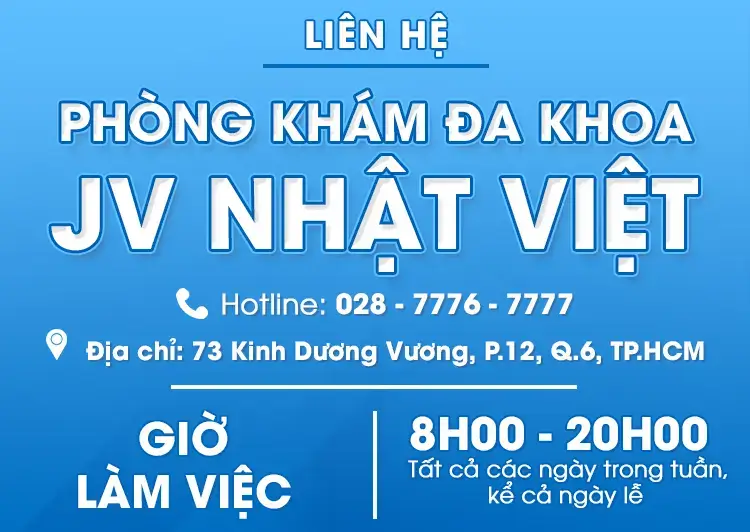
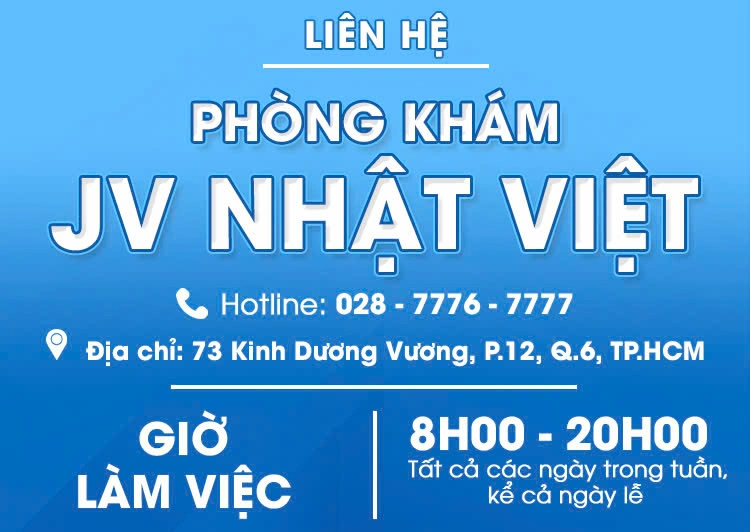
update

diff --git a/index.php b/index.php
@@ -26,9 +26,9 @@ $dataFake = array(
         'title' => 'PHƯƠNG CHÂM PHÒNG KHÁM', 
         // 'image' => '/images/icons/icon_nam_khoa2.webp', 
         'text' => 'Khoa Hậu Môn - Trực Tràng Phòng Khám JV Nhật Việt chuyên khám và hỗ trợ điều trị các bệnh thường gặp như trĩ, rò hậu môn, apxe hậu môn, nứt kẻ hậu môn,… Hiện nay ngày càng nhiều người mắc các Hậu Môn - Trực Tràng. Chính vì vậy bệnh nhân cần chủ động đi khám tại các cơ sở uy tín để nhanh chóng phát hiện và hỗ trợ điều trị sớm.'),
-    // array('title' => 'DA LIỄU', 'image' => '/images/icons/icon_da_lieu2.webp', 'text' => 'Chuyên khoa Da liễu Phòng khám Đa khoa Nhật Việt là đơn vị đảm nhận chẩn đoán và điều trị các bệnh lý thuộc chuyên ngành Da liễu.'),
-    // array('title' => 'BỆNH XÃ HỘI', 'image' => '/images/icons/icon_benh_xh2.webp', 'text' => 'Đa khoa Nhật Việt là một trong những địa chỉ thăm khám, xét nghiệm và điều trị bệnh xã hội uy tín tại TPHCM được người dân thành phố và khu vực tin chọn.'),
-    // array('title' => 'HẬU MÔN - TRỰC TRÀNG', 'image' => '/images/icons/icon_hm_tt2.webp', 'text' => 'Khoa Hậu môn – Trực tràng Phòng khám Đa khoa Nhật Việt chuyên cung cấp dịch vụ khám chữa toàn diện các bệnh lý hậu môn – trực tràng uy tín.'),
+    // array('title' => 'DA LIỄU', 'image' => '/images/icons/icon_da_lieu2.webp', 'text' => 'Chuyên khoa Da liễu Phòng khám Nhật Việt là đơn vị đảm nhận chẩn đoán và điều trị các bệnh lý thuộc chuyên ngành Da liễu.'),
+    // array('title' => 'BỆNH XÃ HỘI', 'image' => '/images/icons/icon_benh_xh2.webp', 'text' => 'Phòng khám Nhật Việt là một trong những địa chỉ thăm khám, xét nghiệm và điều trị bệnh xã hội uy tín tại TPHCM được người dân thành phố và khu vực tin chọn.'),
+    // array('title' => 'HẬU MÔN - TRỰC TRÀNG', 'image' => '/images/icons/icon_hm_tt2.webp', 'text' => 'Khoa Hậu môn – Trực tràng Phòng khám Nhật Việt chuyên cung cấp dịch vụ khám chữa toàn diện các bệnh lý hậu môn – trực tràng uy tín.'),
 );
 ?>
 
@@ -61,7 +61,7 @@ $dataFake = array(
                     Chúng tôi mang đến
                 </div>
                 <div class="we_bring_body_botom_col_text">
-                    Đa Khoa Nhật Việt luôn nỗ lực để xây dựng một thương hiệu chăm sóc sức khỏe với hàm lượng tri thức, khoa học và công nghệ ở mức cao. Mỗi dịch vụ y tế đều hướng tới tính tiện ích, hiệu quả, có ý nghĩa với cuộc sống và sức khỏe con người.
+                    Phòng khám Nhật Việt luôn nỗ lực để xây dựng một thương hiệu chăm sóc sức khỏe với hàm lượng tri thức, khoa học và công nghệ ở mức cao. Mỗi dịch vụ y tế đều hướng tới tính tiện ích, hiệu quả, có ý nghĩa với cuộc sống và sức khỏe con người.
                 </div>
                 <button class="we_bring_body_botom_col_button">Xem tất cả các dịch vụ của chúng tôi</button>
             </div>
@@ -322,7 +322,7 @@ $dataFake = array(
                     </div>
                 </div>
                 <div class="feedback_container_row_card_bottom">
-                    “Mình bị viêm da cũng khá nặng, đã chữa trị nhiều nơi nhưng không khỏi. Mình biết đến Phòng khám Đa khoa Nhật Việt qua một người bạn. Khi mình đến khám, bác sĩ và nhân viên phòng khám hướng dẫn mình rất chi tiết trong từng hạng mục.”
+                    “Mình bị viêm da cũng khá nặng, đã chữa trị nhiều nơi nhưng không khỏi. Mình biết đến Phòng khám Nhật Việt qua một người bạn. Khi mình đến khám, bác sĩ và nhân viên phòng khám hướng dẫn mình rất chi tiết trong từng hạng mục.”
                 </div>
             </div>
             <div class="feedback_container_row_card ">
@@ -347,7 +347,7 @@ $dataFake = array(
                     </div>
                 </div>
                 <div class="feedback_container_row_card_bottom">
-                “Theo Hải thì chất lượng phòng khám là khỏi chê, đội ngũ nhân viên y, bác sĩ rất thân thiện và nhiệt tình. Thời gian trả kết quả cũng rất nhanh, cái chính là an toàn và bảo mật. Đây là điều mà Hải cảm thấy hài lòng nhất, xin cám ơn Đa khoa Nhật Việt!”
+                “Theo Hải thì chất lượng phòng khám là khỏi chê, đội ngũ nhân viên y, bác sĩ rất thân thiện và nhiệt tình. Thời gian trả kết quả cũng rất nhanh, cái chính là an toàn và bảo mật. Đây là điều mà Hải cảm thấy hài lòng nhất, xin cám ơn Phòng khám Nhật Việt!”
                 </div>
             </div>
             <div class="feedback_container_row_card ">
@@ -372,7 +372,7 @@ $dataFake = array(
                     </div>
                 </div>
                 <div class="feedback_container_row_card_bottom">
-                “Công việc của Hiếu khá bận nên thời gian rảnh rất ít. Do đó Hiếu đã chọn thăm khám nam khoa tại Đa Khoa Nhật Việt qua Đặt hẹn Online.”
+                “Công việc của Hiếu khá bận nên thời gian rảnh rất ít. Do đó Hiếu đã chọn thăm khám nam khoa tại Phòng khám Nhật Việt qua Đặt hẹn Online.”
                 </div>
             </div>
         </div>

diff --git a/inc/header.php b/inc/header.php
@@ -35,8 +35,8 @@ header("Pragma: no-cache");
 header("Expires: Sat, 26 Jul 1997 05:00:00 GMT");
 header("Cache-Control: max-age=2592000");
 
-$local = '/haumontructrang.phongkhamdakhoanhatviet.vn';
-// $local ='https://haumontructrang.phongkhamdakhoanhatviet.vn'
+// $local = '/haumontructrang.phongkhamdakhoanhatviet.vn';
+$local ='https://haumontructrang.phongkhamdakhoanhatviet.vn'
 
 
 ?>
@@ -47,8 +47,8 @@ $local = '/haumontructrang.phongkhamdakhoanhatviet.vn';
 <head>
     <meta charset="UTF-8">
     <meta name="viewport" content="width=device-width, initial-scale=1.0">
-    <meta name="description" content="Phòng khám đa khoa chuyên điều trị bệnh nam khoa, bệnh xã hội, da liễu, hậu môn - trực tràng uy tính tại thành phố Hồ Chí Minh">
-    <title>Phòng khám đa khoa</title>
+    <meta name="description" content="Phòng khám Nhật việt chuyên điều trị bệnh nam khoa, bệnh xã hội, da liễu, hậu môn - trực tràng uy tính tại thành phố Hồ Chí Minh">
+    <title>Phòng khám Nhật Việt</title>
     <link rel="icon" href="<?php echo $local ?>/images/icons/icon_logo.png" type="image/x-icon">
     <link rel="stylesheet" href="<?php echo $local ?>/css/toastr.min.css" />
     <link rel="stylesheet" href="<?php echo $local ?>/css/slide.min.css" />
@@ -287,43 +287,16 @@ $sessionkhoa = Session::get('khoa');
                 <div class="header_bottom_dm">
 
                     <a class="header_bottom_gt_a" href="#">hậu môn - trực tràng</a>
-                    <div class="dropdown_menu">
+                    <!-- <div class="dropdown_menu">
                         <div style="height: 10px;"></div>
                         <div class="dropdown_menu_body">
-                            <!-- <ul class="dropdown_menu_body_ul">
-                                <h5 class="dropdown_menu_body_ul_li_h5">Nam khoa</h5>
-                                <?php foreach ($MenuNamkhoa as $value) :
-                                    $activeClass = ($value['id'] === $sessionBenh) ? 'active_menu_tab' : ''; ?>
-
-                                    <li onclick="saveLinkToSession('<?php echo $value['session']; ?>'); return true;" class="dropdown_menu_body_ul_li <?php echo $activeClass; ?>">
-
-                                        <a class="dropdown_menu_body_ul_li_a" href="<?php echo $local . $value['link'] ?>"><?php echo $value['title'] ?></a>
-
-                                    </li>
-                                <?php endforeach; ?>
-                            </ul> -->
-                        <!-- <ul class="dropdown_menu_body_ul">
-                                <h5 class="dropdown_menu_body_ul_li_h5">da liễu</h5>
-                                <?php foreach ($MenuDaLieu as $value) : $activeClass = ($value['id'] === $sessionBenh) ? 'active_menu_tab' : ''; ?>
-                                    <li onclick="saveLinkToSession('<?php echo $value['session']; ?>'); return true;" class="dropdown_menu_body_ul_li <?php echo $activeClass; ?>"><a class="dropdown_menu_body_ul_li_a" href="<?php echo $local . $value['link'] ?>"><?php echo $value['title'] ?> </a></li>
-                                <?php endforeach; ?>
-                            </ul> -->
-                            <!-- <ul class="dropdown_menu_body_ul">
-                                <h5 class="dropdown_menu_body_ul_li_h5">bệnh xã hội</h5>
-                                <?php foreach ($MenuBXH as $value) : $activeClass = ($value['id'] === $sessionBenh) ? 'active_menu_tab' : ''; ?>
-                                    <li onclick="saveLinkToSession('<?php echo $value['session']; ?>'); return true;" class="dropdown_menu_body_ul_li <?php echo $activeClass; ?>"><a class="dropdown_menu_body_ul_li_a" href="<?php echo $local . $value['link'] ?>"><?php echo $value['title'] ?> </a></li>
-                                <?php endforeach; ?>
-                            </ul> -->
                                 <ul class="dropdown_menu_body_ul">
-                                <!-- <h5 class="dropdown_menu_body_ul_li_h5">hậu môn - trực tràng</h5> -->
                                 <?php foreach ($MenuHM as $value) : $activeClass = ($value['slug'] === $sessionBenh) ? 'active_menu_tab' : ''; ?>
                                     <li onclick="saveLinkToSession('<?php echo $value['session']; ?>'); return true;" class="dropdown_menu_body_ul_li <?php echo $activeClass; ?>"><a class="dropdown_menu_body_ul_li_a" href="<?php echo $local . $value['link'] ?>"><?php echo $value['name'] ?></a></li>
                                 <?php endforeach; ?>
                             </ul> 
-
                         </div>
-
-                    </div>
+                    </div> -->
 
                 </div>
                 <div style="position: relative;" class="header_bottom_gk"><a class="header_bottom_gt_a" href="<?php echo $local ?>/tin-tuc-y-khoa.html">tin tức y khoa</a>

diff --git a/mobile/header_moblie.php b/mobile/header_moblie.php
@@ -51,55 +51,7 @@
                         <span>danh mục bệnh</span>
                         <img style="padding-left: 77px; margin-bottom: 7px; " src="<?php echo $local ?>/images/icons/icon_down.png" alt="">
                     </span>
-                    <ul class="sidebar_mobile_li_ul">
-                        <!-- <li class="sidebar_mobile_li_ul_li  ">
-                            <span onclick="showShelectOptionBenh(); return true;" style="display: flex; align-items: center; justify-content: space-between; ">
-                                <span>Nam khoa</span>
-                                <img style=" margin-bottom: 9px; padding-top: 9px; width: 10px; " src="<?php echo $local ?>/images/icons/add.webp" alt="">
-                            </span>
-
-                            <ul class="sidebar_mobile_li_ul_li_benh">
-                                <?php foreach ($MenuNamkhoa as $value) :
-                                    $activeClass = ($value['id'] === $sessionBenh) ? 'active_menu_tab' : ''; ?>
-                                    <li class="<?php echo $activeClass; ?>" onclick="saveLinkToSession('<?php echo $value['session']; ?>'); return true;">
-                                        <a href="<?php echo $local . $value['link'] ?>"><?php echo $value['title'] ?></a>
-                                    </li>
-                                <?php endforeach; ?>
-
-                            </ul>
-                        </li> -->
-                         <!-- <li class="sidebar_mobile_li_ul_li  ">
-                            <span onclick="showShelectOptionBenh();return true;" style="display: flex; align-items: center; justify-content: space-between; ">
-                                <span>da liễu</span>
-                                <img style=" margin-bottom: 9px; padding-top: 9px; width: 10px; " src="<?php echo $local ?>/images/icons/add.webp" alt="">
-                            </span>
-
-                            <ul class="sidebar_mobile_li_ul_li_benh">
-                                <?php foreach ($MenuDaLieu as $value) :
-                                    $activeClass = ($value['id'] === $sessionBenh) ? 'active_menu_tab' : ''; ?>
-                                    <li class="<?php echo $activeClass; ?>" onclick="saveLinkToSession('<?php echo $value['session']; ?>'); return true;">
-                                        <a href="<?php echo $local . $value['link'] ?>"><?php echo $value['title'] ?></a>
-                                    </li>
-                                <?php endforeach; ?>
-
-                            </ul>
-                        </li> -->
-                        <!-- <li class="sidebar_mobile_li_ul_li  ">
-                            <span onclick="showShelectOptionBenh();return true;" style="display: flex; align-items: center; justify-content: space-between; ">
-                                <span>bệnh xã hội</span>
-                                <img style=" margin-bottom: 9px; padding-top: 9px; width: 10px; " src="<?php echo $local ?>/images/icons/add.webp" alt="">
-                            </span>
-
-                            <ul class="sidebar_mobile_li_ul_li_benh">
-                                <?php foreach ($MenuBXH as $value) :
-                                    $activeClass = ($value['id'] === $sessionBenh) ? 'active_menu_tab' : ''; ?>
-                                    <li class="<?php echo $activeClass; ?>" onclick="saveLinkToSession('<?php echo $value['session']; ?>'); return true;">
-                                        <a href="<?php echo $local . $value['link'] ?>"><?php echo $value['title'] ?></a>
-                                    </li>
-                                <?php endforeach; ?>
-
-                            </ul>
-                        </li> -->
+                    <!-- <ul class="sidebar_mobile_li_ul">
                        <li class="sidebar_mobile_li_ul_li  ">
                             <span onclick="showShelectOptionBenh();return true;" style="display: flex; align-items: center; justify-content: space-between; ">
                                 <span>hậu môn - trực tràng </span>
@@ -113,10 +65,9 @@
                                         <a href="<?php echo $local . $value['link'] ?>"><?php echo $value['name'] ?></a>
                                     </li>
                                 <?php endforeach; ?>
-
                             </ul>
                         </li>
-                    </ul>
+                    </ul> -->
                 </li>
 
                 <li>

diff --git a/admin/inc/header.php b/admin/inc/header.php
@@ -10,8 +10,8 @@ if (isset($_GET['action']) && $_GET['action'] == 'logout') {
     Session::destroy();
 }
 
-$local = 'http://localhost/haumontructrang.phongkhamdakhoanhatviet.vn';
-// $local = 'https://haumontructrang.phongkhamdakhoanhatviet.vn';
+// $local = 'http://localhost/haumontructrang.phongkhamdakhoanhatviet.vn';
+$local = 'https://haumontructrang.phongkhamdakhoanhatviet.vn';
 ?>
 <?php
 function getImagesFromFolder($folderPath) {
@@ -91,7 +91,7 @@ header("Cache-Control: max-age=2592000");
         <aside id="sidebar">
             <div class="d-flex mt-3" style="margin-left: 24px;">
                 <div class="sidebar-logo">
-                    <a href="<?php echo $local ?>/admin">PK Đa Khoa</a>
+                    <a href="<?php echo $local ?>/admin">Phòng khám Nhật Việt</a>
                 </div>
             </div>
             <ul class="sidebar-nav">
